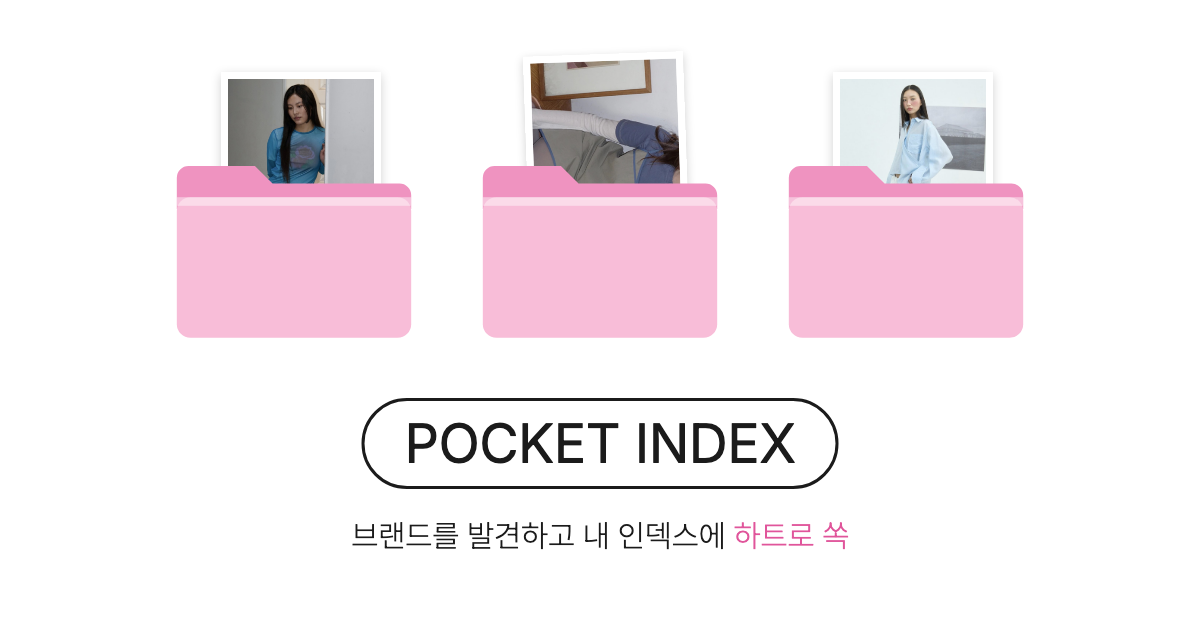
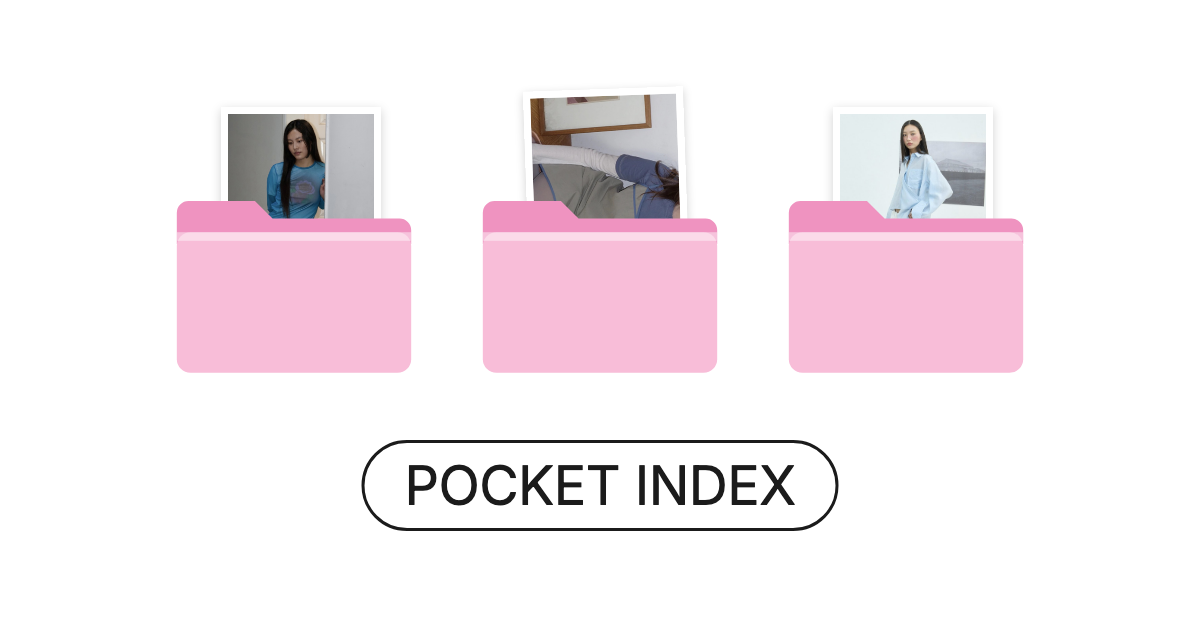
공유 썸네일에서 설명 문장 제거

diff --git a/index.html b/index.html
@@ -10,7 +10,7 @@
 <meta property="og:title" content="Pocket Index">
 <meta property="og:description" content="브랜드를 발견하고 내 인덱스에 하트로 쏙🥰">
 <meta property="og:url" content="https://pocket-index.com/">
-<meta property="og:image" content="https://pocket-index.com/og-image.png?v=2">
+<meta property="og:image" content="https://pocket-index.com/og-image.png?v=3">
 <meta property="og:image:width" content="1200">
 <meta property="og:image:height" content="630">
 <meta property="og:locale" content="ko_KR">
